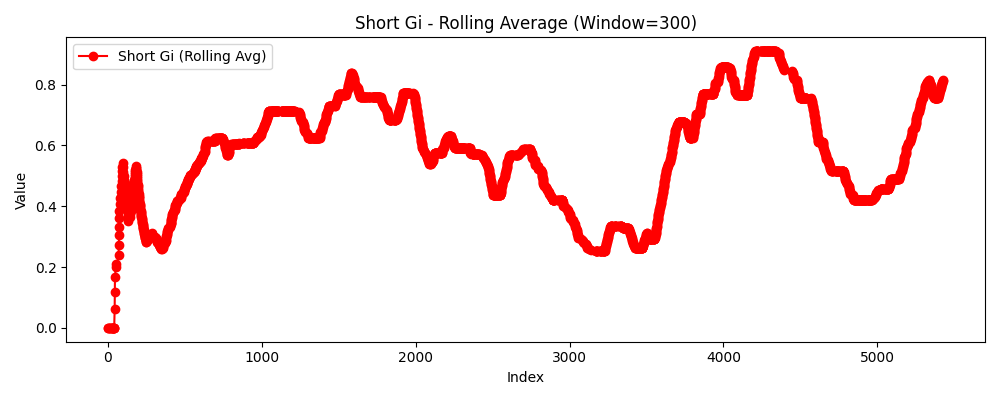
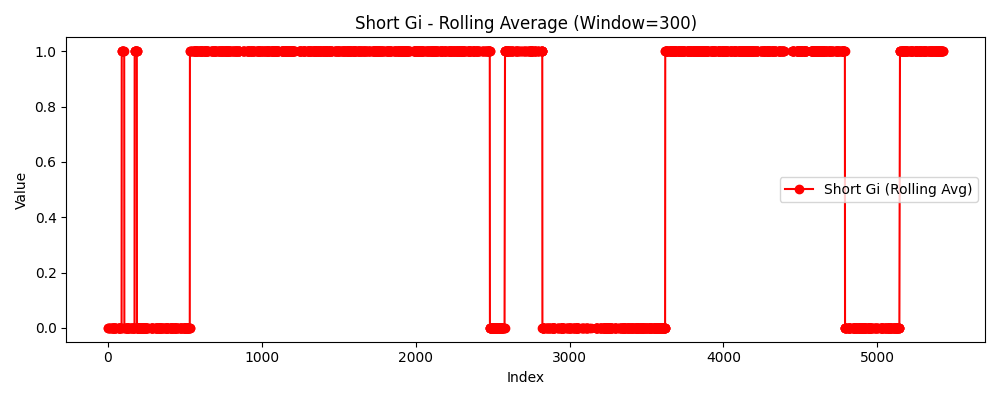
minor change to short gi

diff --git a/visualizer.py b/visualizer.py
@@ -133,6 +133,8 @@ class Visualizer:
             values = df[column].replace({None: np.nan})  # Replace None with NaN
             values = pd.to_numeric(values, errors='coerce')  # Convert non-numeric values to NaN
             rolling_avg = values.rolling(window=window, min_periods=1).mean()
+            if column == 'Short Gi':
+                rolling_avg = (rolling_avg >= 0.5).astype(int)
 
             plt.figure(figsize=(10, 4))
             plt.plot(rolling_avg.index, rolling_avg, marker='o', linestyle='-', color='r', label=f"{column} (Rolling Avg)")
